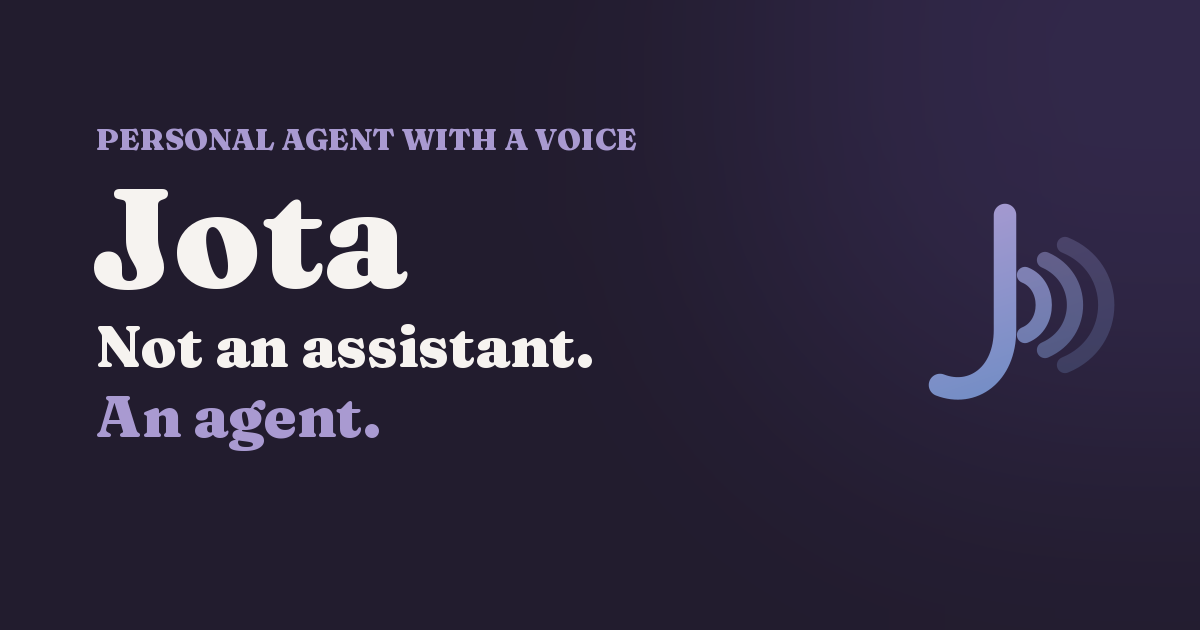
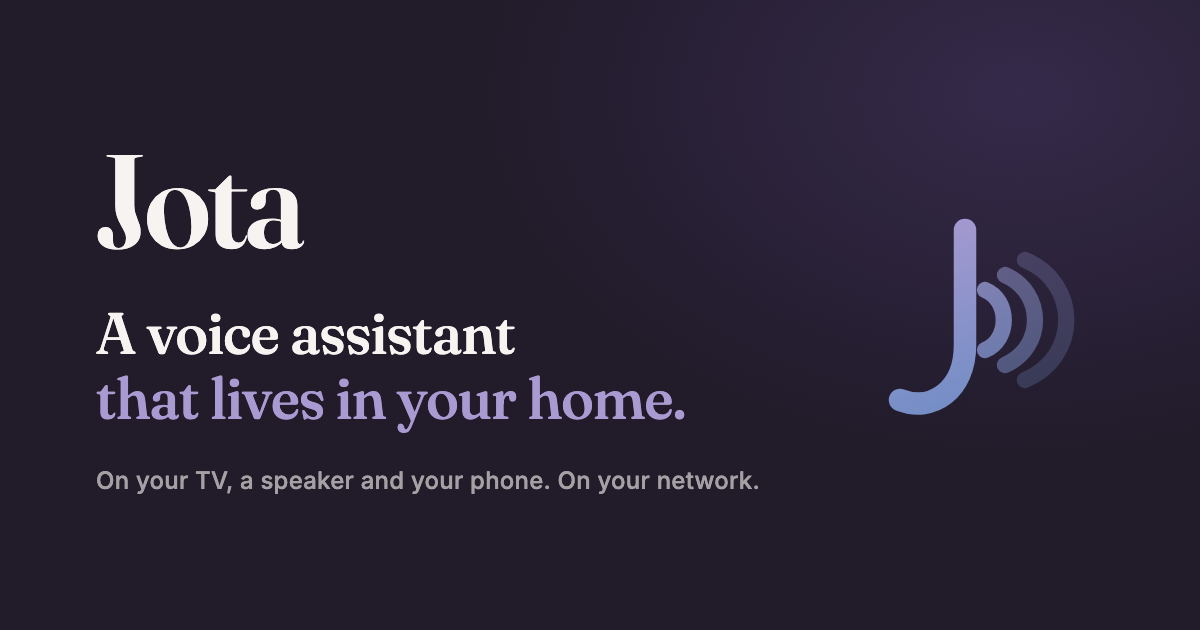
fix(home): respuesta legible en la tele del hero y metadatos al día
- La píldora de la tele del hero crece para leerse a tamaño de hero (también en móvil).
- Título, descripción e imagen para compartir dicen lo mismo que el home nuevo.
- J-Screen pasa a llamarse Jota-Screen en el copy que quedaba.

Changed region(s): [[0.0617, 0.181, 0.5858, 0.7238], [0.74, 0.3016, 0.9558, 0.6635], [0.0617, 0.754, 0.6475, 0.7841]]

diff --git a/app/[locale]/layout.tsx b/app/[locale]/layout.tsx
@@ -1,7 +1,7 @@
 import type { Metadata } from "next";
 import type { ReactNode } from "react";
 import { NextIntlClientProvider, hasLocale } from "next-intl";
-import { getMessages, setRequestLocale } from "next-intl/server";
+import { getMessages, getTranslations, setRequestLocale } from "next-intl/server";
 import { notFound } from "next/navigation";
 import { routing } from "@/i18n/routing";
 import { Nav } from "@/components/Nav";
@@ -19,12 +19,9 @@ export async function generateMetadata({
   const { locale } = await params;
   const isEs = locale === "es";
 
-  const title = isEs
-    ? "Jota — Tu agente personal, con voz"
-    : "Jota — Your personal agent, with a voice";
-  const description = isEs
-    ? "No es un asistente de voz más: un agente que recuerda, se personaliza y actúa por ti. Tu casa, tu trabajo, tu día a día. Privado por diseño."
-    : "Not just another voice assistant: an agent that remembers, personalizes and acts for you. Your home, your work, your day. Private by design.";
+  const t = await getTranslations({ locale, namespace: "home.meta" });
+  const title = t("title");
+  const description = t("description");
   const ogImage = isEs ? "/og-image.png" : "/og-image-en.png";
 
   return {

diff --git a/components/home/home.css b/components/home/home.css
@@ -4,6 +4,9 @@
 /* ---------- hero ---------- */
 .hm-tv{display:flex;flex-direction:column;gap:14px}
 .hm-tv .tv-vp{box-shadow:0 30px 80px -30px rgba(33,27,42,.55)}
+/* the TV is drawn at 1920px and shrunk to a third: the pill grows so its words read at hero size */
+.hm-tv .tv-glass{transform:scale(1.5);transform-origin:50% 40px}
+@media (max-width:640px){.hm-tv .tv-glass{transform:scale(1.7)}}
 .hm-cap{font-size:.92rem;line-height:1.5;color:var(--color-ink-soft,#6a6377);max-width:52ch;display:flex;flex-wrap:wrap;gap:4px 14px;align-items:baseline}
 .hm-replay{font:inherit;font-weight:600;color:var(--color-malva-text,#67569a);background:none;border:0;padding:0;cursor:pointer;text-decoration:underline;text-underline-offset:4px;
   animation:hm-in .4s var(--ease-out,cubic-bezier(.23,1,.32,1)) both}
